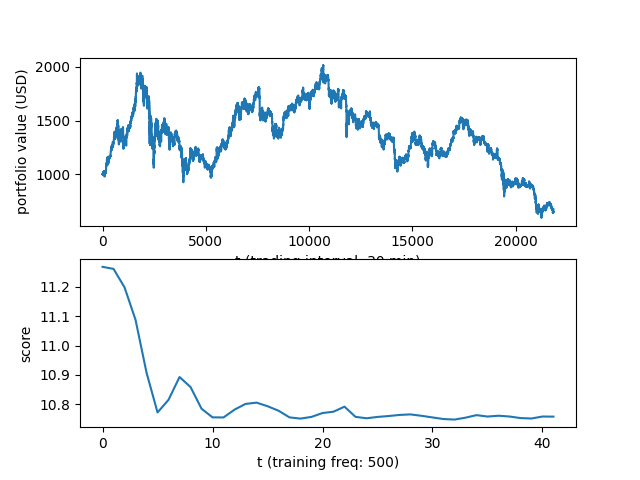
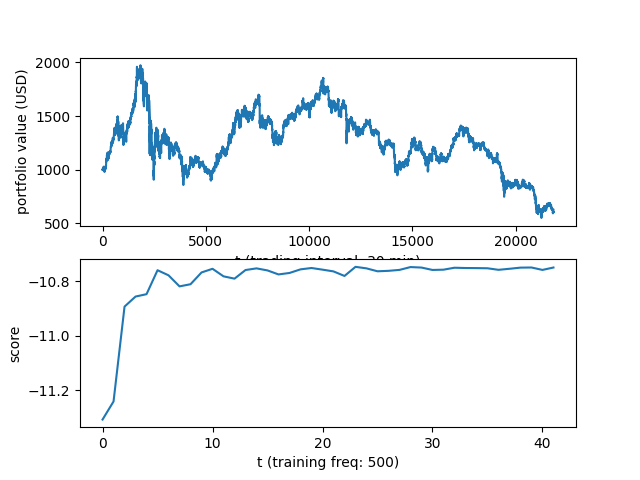
updates

diff --git a/src/network.py b/src/network.py
@@ -14,6 +14,7 @@ class NetworkCNN(nn.Module):
         self.n_coins = num_currencies
         self.w_size = window_size
         self.relu = nn.ReLU()
+
         self.conv1 = torch.nn.Conv2d (self.feature_number , 2, (1,3), bias = False)
         self.conv2 = torch.nn.Conv2d ( 2, 20, (1,48), bias = False)
         self.conv3 = torch.nn.Conv2d ( 21, 1, (1,1), bias = False)
@@ -21,34 +22,23 @@ class NetworkCNN(nn.Module):
         
     def forward(self, x, W):
         
-        #input_tensor =[batch_size, feature_number, num_currencies, window_size] 
-        # x = x.permute(0,2,3,1) #[batch, num_currencies, window, features]
-        input_dim = x.shape[0]
+        # input_dim = x.shape[0]
         assert W.shape[1]==self.n_coins, "Number of currencies are not matching"
         
-        # print(f"============== input size -> {x.size()} ,  portfolio vector size ->   {W.shape}")
-
-        # import pdb; pdb.set_trace()
         x= self.conv1(x)
         x = self.relu(x)
         
-        # print(f"============== conv 1x3 ->  {x.shape}")
         x =  self.conv2(x)
         x = self.relu(x) 
         
-        # print(f"============== conv 1x48 ->   {x.shape}") # [batch_size, 20, num_currencies, 1]
         x= torch.concat((x, W.unsqueeze(1)), dim=1) ## concat previous weights with the conv features
-        # import pdb; pdb.set_trace()
         x =  self.conv3(x)
         
         
-        # print(f"============== conv 1x1 ->   {x.shape}")
         bias_cash = torch.ones((x.shape[0], 1, 1, 1))  
         
-        # print(f"============== bias ->   {bias_cash.shape}")
         x= torch.concat(( bias_cash, x), dim=2)  
         
         out = self.softmax(x).squeeze(1)
         
-        # print(f"============== output ->  {out.shape}")
         return out

diff --git a/src/DPG.py b/src/DPG.py
@@ -35,6 +35,7 @@ class DPG(object):
 		self.p_0 = config["inputs"]["init_value"]
 		self.portValues = None
 		self.score = []
+		# import pdb; pdb.set_trace()
 
 		
 	def train(self):
@@ -57,7 +58,8 @@ class DPG(object):
 
 				# PAY ATTENTION to whether cash coin included in the tensor or not!
 				# Store sample path into replay buffer
-				self.pvm.store_portfolio_vector(w_out.detach().numpy()[0,:,0], t)
+				# self.pvm.store_portfolio_vector(w_out.detach().numpy()[0,:,0], t)
+				self.pvm.store_portfolio_vector(w_out.squeeze().detach().numpy(), t)
 
 				# Update transaction remainder factor mu_t
 				self.update_mu_t(t)
@@ -135,8 +137,6 @@ class DPG(object):
 		loss.backward()
 		self.optimizer.step()
 
-		self.score.append(loss.detach().numpy().item())
-
 		return loss
 
 	def calc_loss(self, train_batch):
@@ -148,13 +148,15 @@ class DPG(object):
 		
 		w_out = self.take_action(X, prev_w[:, 1:, :])
 
+		tb = tb + 1
 		Y_tb = torch.tensor(self.Y[tb].astype(np.float64))
 
 		# import pdb; pdb.set_trace()
 
 		# Equation (10)&(21) in the paper; Note: r_t = ln(mu_t * y_{t+1} * w_{t})
-		tb = tb + 1
 		loss = torch.sum(torch.log(self.mu_t * Y_tb * w_out.squeeze())) / self.Nb # Squeeze because w_out.shape: (batch, currency, 1)
+
+		self.score.append(loss.detach().numpy().item())
 
 		return loss
 
@@ -188,6 +190,9 @@ class DPG(object):
 			else:
 				X_samples = torch.cat([X_samples, self.get_X(tb)], dim=0)
 				w_samples = torch.cat([w_samples, self.pvm.get_previous_w(tb)], dim=0)
+
+		X_samples.requires_grad_()
+		w_samples.requires_grad_()
 
 		return X_samples, w_samples, tb_samples
 
